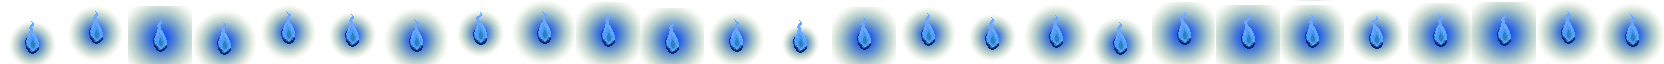
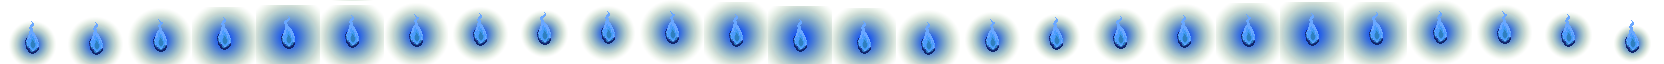
Fixed soul animation

diff --git a/Assets/Scripts/Javascript/Tools/MapGenerator.js b/Assets/Scripts/Javascript/Tools/MapGenerator.js
@@ -163,12 +163,14 @@ function GenerateMap(_Game, _Map, _tilemap, _tilesetName, _tilesetFile )
 			soul.body.collides([playerCG],soul.Kill);
 			if (p.properties && p.properties.z_index) 
 			{
-						console.log("Custom z-index");
+				console.log("Custom z-index");
+				Layers["Z-index"][p.properties.z_index].add(soul.emitter);
 				Layers["Z-index"][p.properties.z_index].add(soul);
 			}
 			else
 			{
-				Layers["Z-index"][6].add(soul);
+				Layers["Z-index"][5].add(soul.emitter);
+				Layers["Z-index"][5].add(soul);
 			}
 		}
 	}
